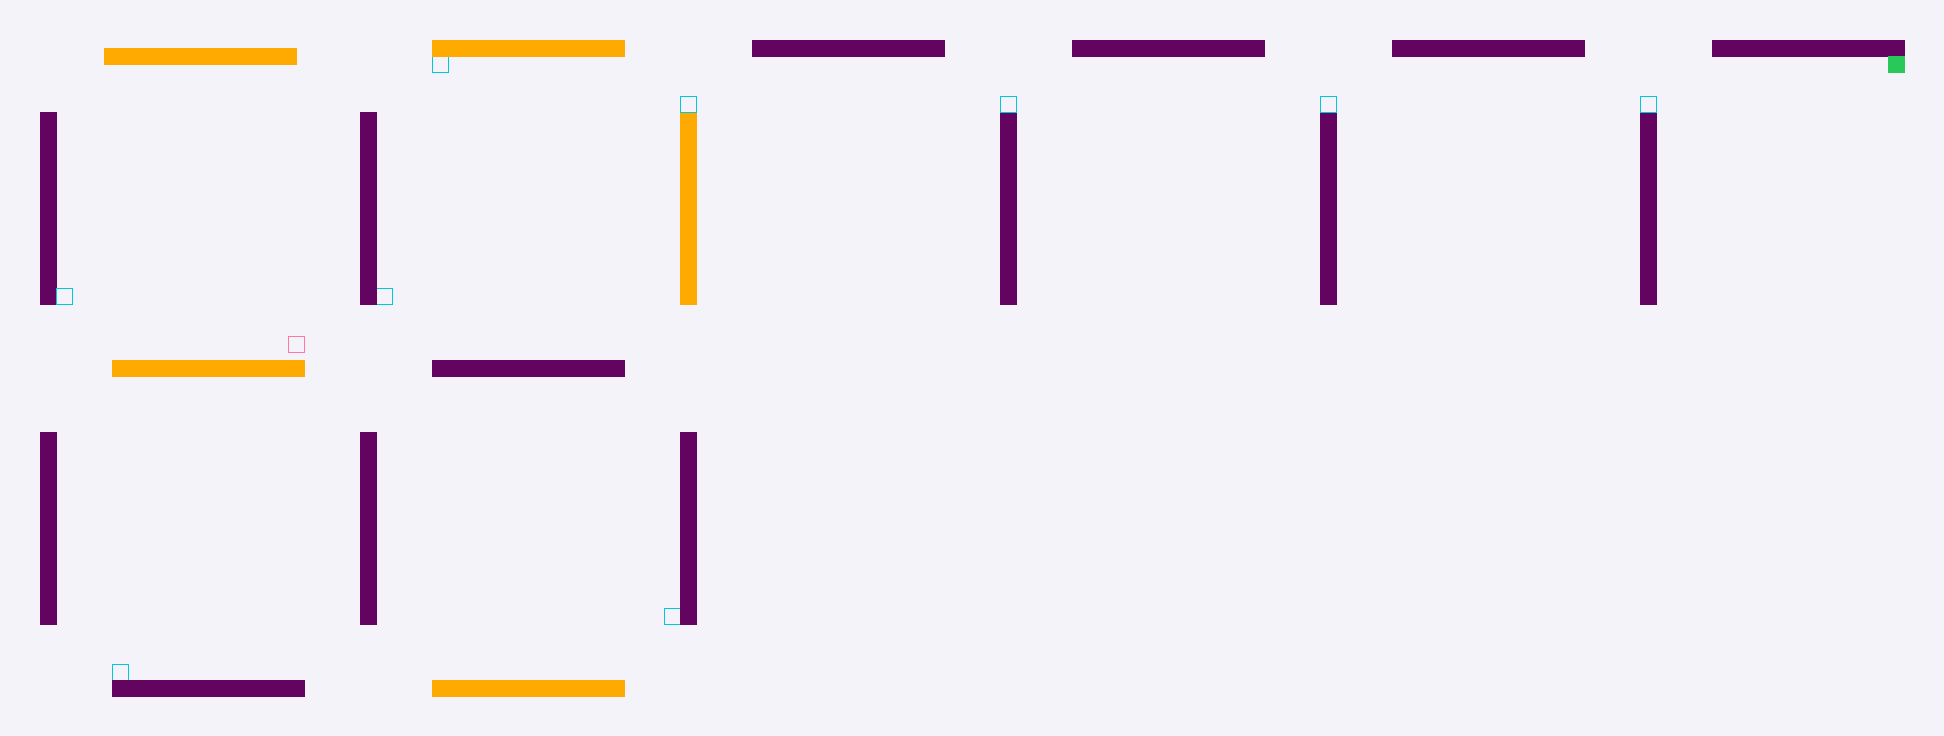
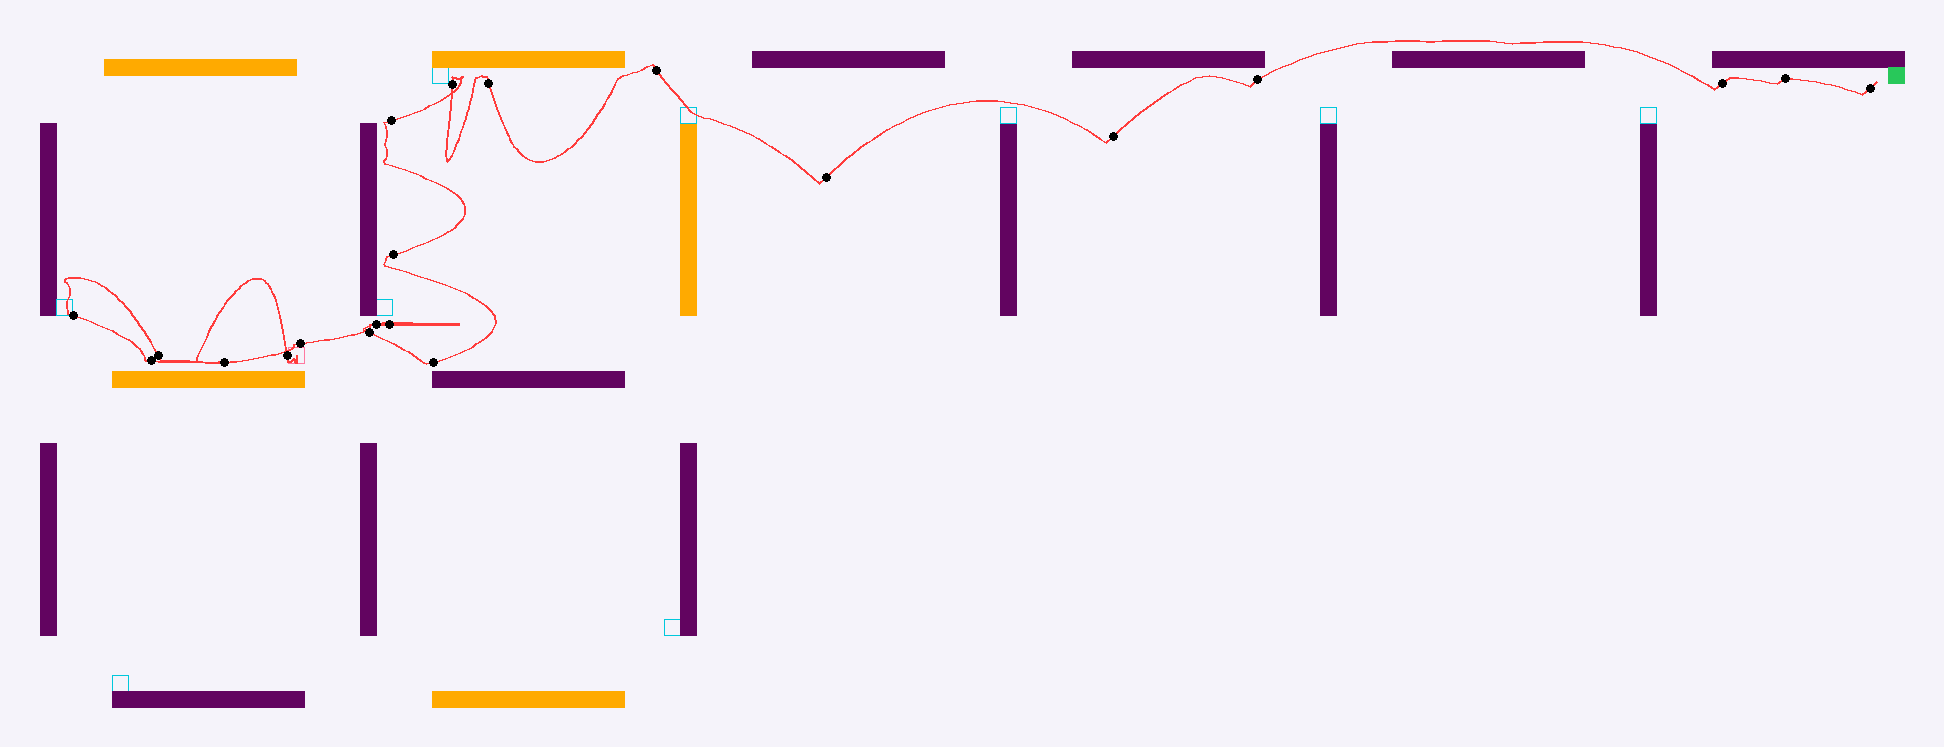
L28 round 1: 605
Claude-Session: https://claude.ai/code/session_01GQ5THw5WX98776K4QYWqRx

diff --git a/work/L28/sim/sv.js b/work/L28/sim/sv.js
@@ -1,0 +1,5 @@
+const {toTas,emulate}=require('./tas');const {loadLevel}=require('./boxel');const fs=require('fs');
+const jumps=JSON.parse(process.argv[2]); const tas=toTas(jumps); const r=emulate(loadLevel(28),tas);
+console.log(JSON.stringify({fin:r.finished,ticks:r.ticks}));
+const out='../../../results/L28.json'; let cur=null; try{cur=JSON.parse(fs.readFileSync(out))}catch(e){}
+if(r.finished&&(!cur||r.ticks<cur.frames)){fs.writeFileSync(out,JSON.stringify({level:28,frames:r.ticks,jumps:r.jumped,tas,by:'A'}));fs.writeFileSync('best.json',JSON.stringify({28:r.jumped}));console.log('saved',r.ticks)}

diff --git a/results/L28.md b/results/L28.md
@@ -1,3 +1,8 @@
 # Level 28 (agent A, round 1)
 Layout: start bottom-left room; many gravity blocks (9) guide through rooms along a top corridor to finish top-right; 5 direction arrows; no resize/bounce/spikes.
 Ideas: direct route ignoring gravity blocks; gravity order variations (skip/reuse each block); start jump/j0; p0 start if spawn overlaps sensor; ceiling surfing; corner kicks; tunnelling through thin walls; arrows skipped/reversed; jump refill from gravity-block sensors.
+## Results (A, Round 1, in progress): best so far 605 frames (results/L28.json)
+Gravity encoding: angle 0 = down, pi/2 = left, -pi/2 = right, +-pi = up. Start on a direction-arrow bar pushes the cube left; route rides gravity blocks through the first 3 rooms then bounce-hops right along the top corridor.
+Methods: search2 (grid distance) fails on this level (grid ignores gravity changes): W600 plain/TIME4 both starts -> fail. Go-Explore seed1 714, seed2 816 -> suffix.js W600 TMIN 4/1000 sweeps T0=300..600 -> 605. Early T0 (100-250) beams fail (heuristic).
+Spawn does not overlap a sensor (p0 irrelevant).
+Final (A R1): 605 frames, tips 0 (no tips in level). More Go-Explore seeds: 3 -> 975, 4 not finished (280 s). Forced multibeam with waypoints [[130,-20],[130,120],[144,235]] (climb wall east of room-1/2 divider to the top gravity block) from T0=120/200 (W500, 50 s cap): no result in time. Untried/likely slack: first 420 ticks wander in rooms 1-2 (gravity left, ticks 120-405); a gravity-aware heuristic / waypoint beam or many more GE seeds should beat 605. Skip-block, tunnelling, resize (none), direct-route tests not completed.
